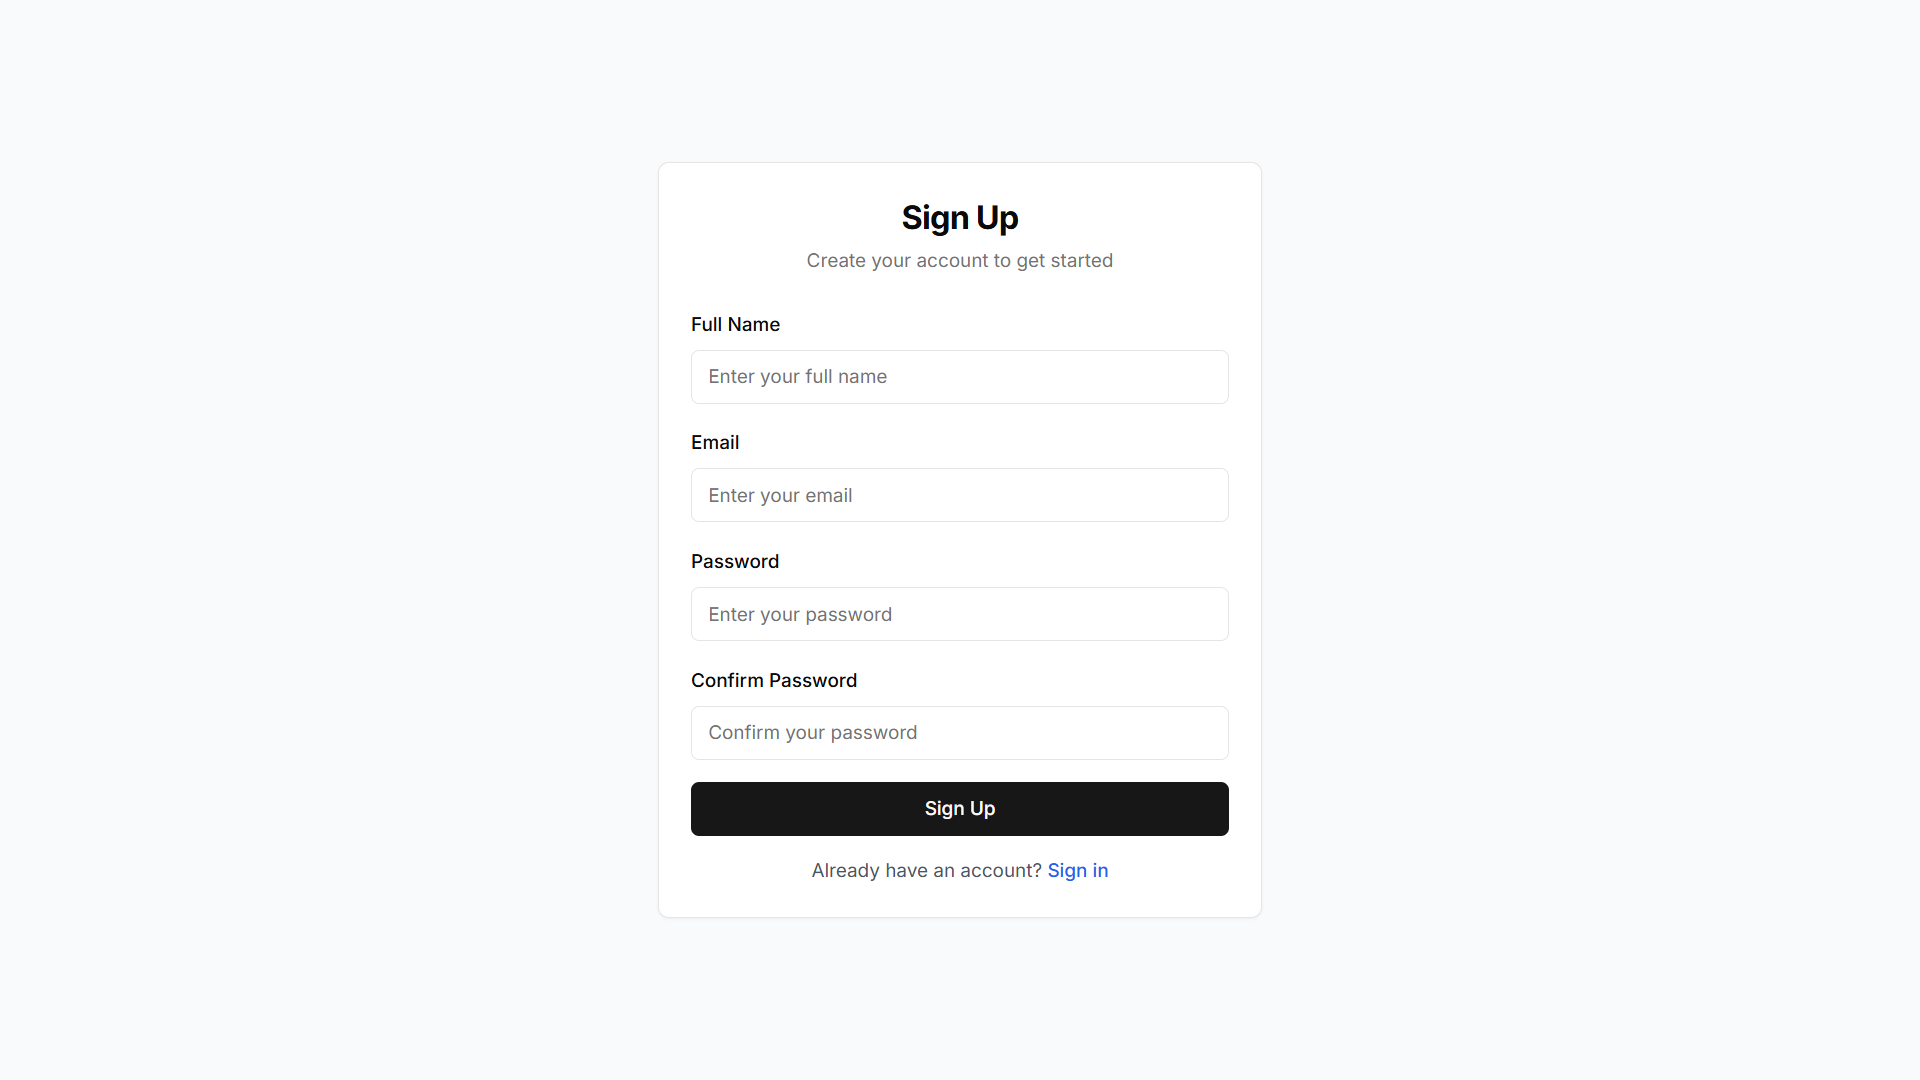
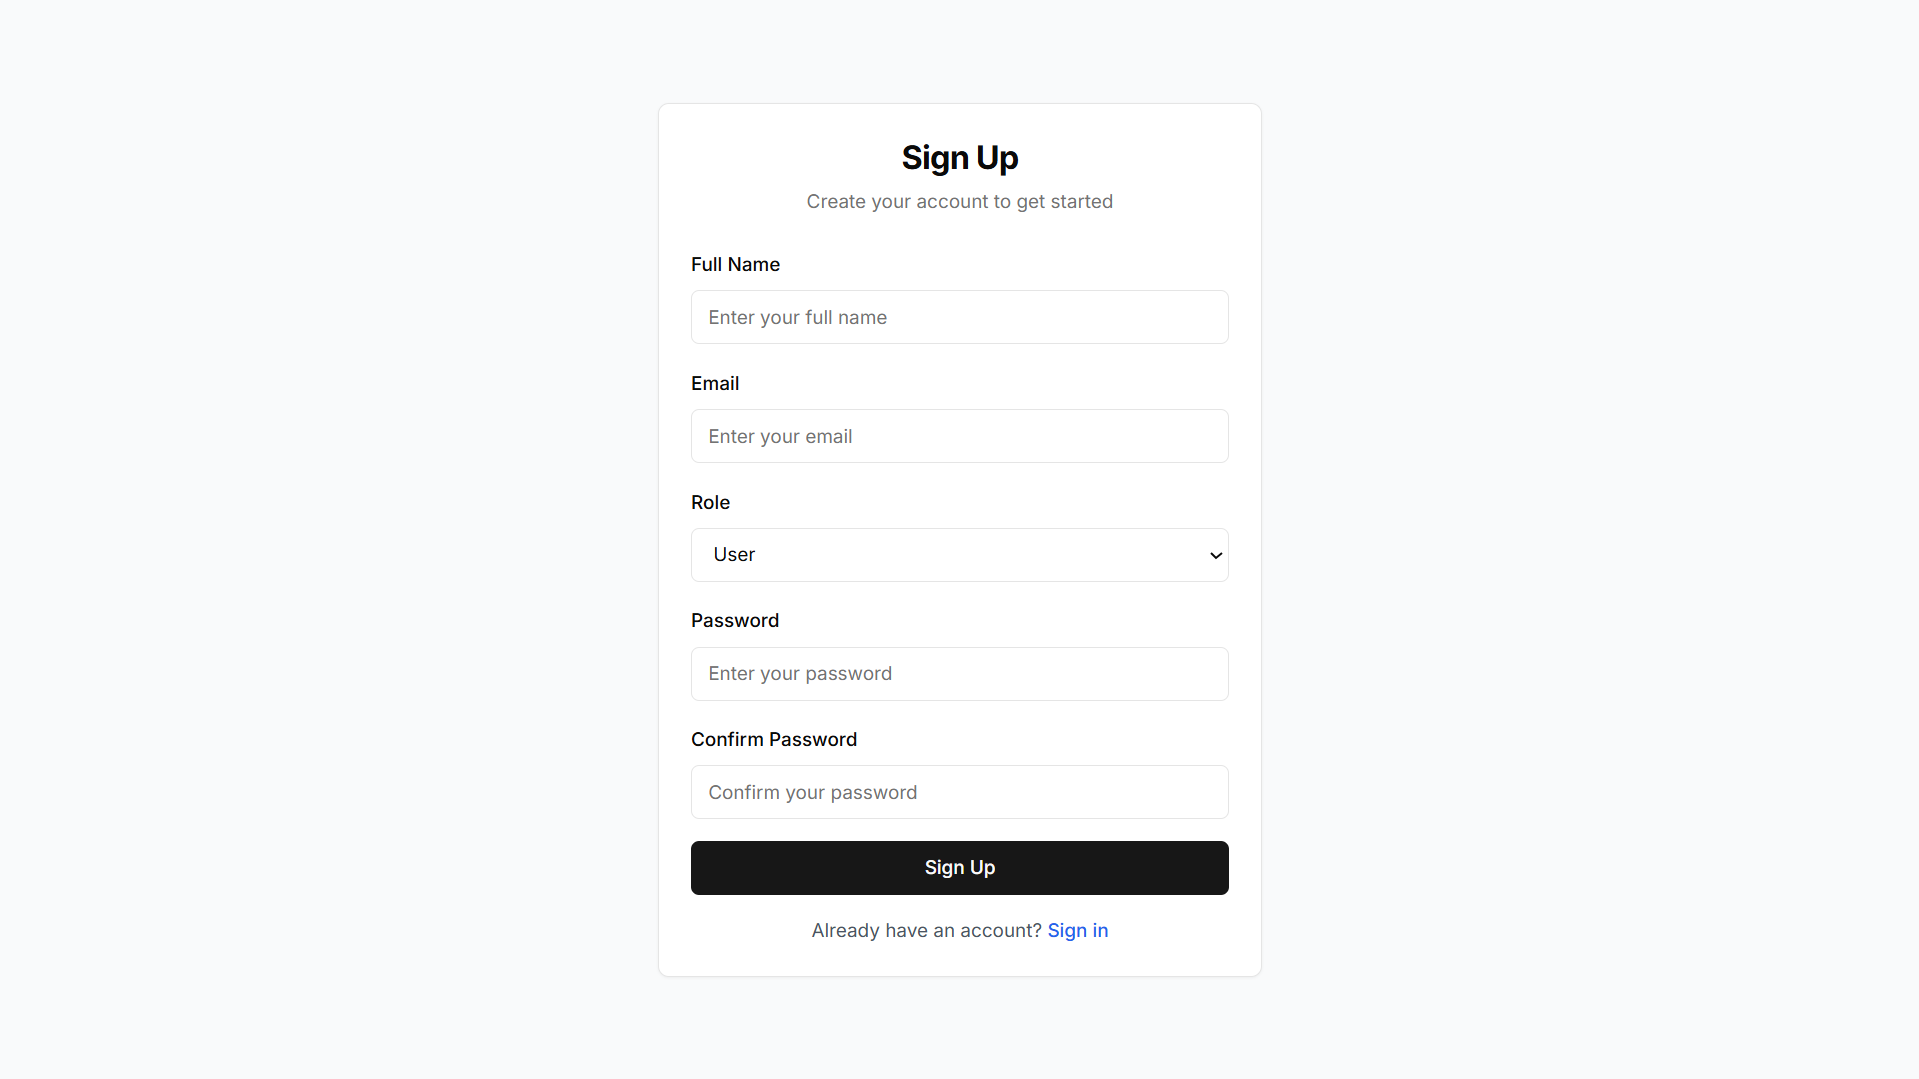
Feature commit

diff --git a/server/controllers/taskController.js b/server/controllers/taskController.js
@@ -12,10 +12,14 @@ exports.createTask = async (req, res) => {
 exports.getAllTasks = async (req, res) => {
   try {
     const { status, category, project, sortBy } = req.query;
-    const isAdmin = req.user.role === 'admin';
-
-    // Base query depending on user role
-    let query = isAdmin ? {} : { createdBy: req.user._id };
+    
+    // Base query for user's own tasks and assigned tasks
+    let query = {
+      $or: [
+        { createdBy: req.user._id },
+        { assignedTo: req.user._id }
+      ]
+    };
 
     // Apply filters
     if (status && status !== 'all') query.status = status;
@@ -27,14 +31,15 @@ exports.getAllTasks = async (req, res) => {
     if (sortBy === 'deadline') {
       sortOption.deadline = 1;
     } else {
-      sortOption.createdAt = -1; // Default sort by creation date
+      sortOption.createdAt = -1;
     }
 
     const tasks = await Task.find(query)
       .sort(sortOption)
+      .populate('createdBy', 'name email')
       .populate('assignedTo', 'name email');
 
-    res.json({ tasks });
+    res.json(tasks);
   } catch (err) {
     res.status(500).json({ message: err.message });
   }
@@ -91,24 +96,26 @@ exports.getUpcomingTasks = async (req, res) => {
     const in48Hours = new Date(now.getTime() + 48 * 60 * 60 * 1000);
     
     const tasks = await Task.find({
-      $or: [
-        { createdBy: req.user._id },
-        { assignedTo: req.user._id }
-      ],
-      deadline: { $exists: true }, // Only tasks with deadline set
-      status: { $ne: 'completed' },
-      $or: [
-        { deadline: { $lte: in48Hours } }, // Due within 48 hours
-        { deadline: { $lt: now } } // Overdue tasks
+      $and: [
+        {
+          $or: [
+            { createdBy: req.user._id },
+            { assignedTo: req.user._id }
+          ]
+        },
+        {
+          deadline: { $exists: true }, // Only tasks with deadline set
+          status: { $ne: 'completed' },
+          deadline: { 
+            $lte: in48Hours, // Due within 48 hours or overdue
+            $exists: true 
+          }
+        }
       ]
     })
     .sort({ deadline: 1 }) // Sort by nearest deadline first
     .populate('assignedTo', 'name email')
     .populate('createdBy', 'name email');
-
-    if (!tasks) {
-      return res.status(404).json({ message: 'No tasks found' });
-    }
 
     // Filter out tasks with invalid deadlines and format them
     const validTasks = tasks.filter(task => task.deadline && !isNaN(new Date(task.deadline).getTime()));
@@ -120,6 +127,87 @@ exports.getUpcomingTasks = async (req, res) => {
       message: 'Error fetching upcoming tasks',
       error: process.env.NODE_ENV === 'development' ? err.message : undefined
     });
+  }
+};
+
+// Admin-only: Get all tasks in the system
+exports.getAllTasksAdmin = async (req, res) => {
+  try {
+    const { status, category, project, sortBy } = req.query;
+    
+    let query = {};
+
+    // Apply filters
+    if (status && status !== 'all') query.status = status;
+    if (category) query.category = { $regex: category, $options: 'i' };
+    if (project) query.project = { $regex: project, $options: 'i' };
+
+    // Set up sorting
+    let sortOption = {};
+    if (sortBy === 'deadline') {
+      sortOption.deadline = 1;
+    } else {
+      sortOption.createdAt = -1;
+    }
+
+    const tasks = await Task.find(query)
+      .sort(sortOption)
+      .populate('createdBy', 'name email')
+      .populate('assignedTo', 'name email');
+
+    res.json(tasks);
+  } catch (err) {
+    res.status(500).json({ message: err.message });
+  }
+};
+
+exports.getProjectStats = async (req, res) => {
+  try {
+    // Get all tasks
+    const tasks = await Task.find({})
+      .populate('assignedTo', 'name email')
+      .populate('createdBy', 'name email');
+
+    // Group tasks by project
+    const projectGroups = tasks.reduce((groups, task) => {
+      const project = task.project || 'Uncategorized';
+      if (!groups[project]) {
+        groups[project] = {
+          project,
+          tasks: [],
+          totalTasks: 0,
+          completedTasks: 0,
+          pendingTasks: 0,
+          inProgressTasks: 0
+        };
+      }
+      
+      groups[project].tasks.push(task);
+      groups[project].totalTasks++;
+      
+      switch (task.status) {
+        case 'completed':
+          groups[project].completedTasks++;
+          break;
+        case 'in-progress':
+          groups[project].inProgressTasks++;
+          break;
+        default:
+          groups[project].pendingTasks++;
+      }
+      
+      return groups;
+    }, {});
+
+    // Convert to array and sort by project name
+    const projects = Object.values(projectGroups).sort((a, b) => 
+      a.project.localeCompare(b.project)
+    );
+
+    res.json({ projects });
+  } catch (err) {
+    console.error('Error in getProjectStats:', err);
+    res.status(500).json({ message: err.message });
   }
 };
 

diff --git a/client/app/register/page.tsx b/client/app/register/page.tsx
@@ -16,6 +16,7 @@ export default function RegisterPage() {
   const [email, setEmail] = useState("")
   const [password, setPassword] = useState("")
   const [confirmPassword, setConfirmPassword] = useState("")
+  const [role, setRole] = useState("user")
   const [error, setError] = useState("")
   const [loading, setLoading] = useState(false)
   const { register } = useAuth()
@@ -32,7 +33,7 @@ export default function RegisterPage() {
     setLoading(true)
 
     try {
-      await register(name, email, password)
+      await register(name, email, password, role)
     } catch (err: any) {
       setError(err.message)
     } finally {
@@ -77,6 +78,19 @@ export default function RegisterPage() {
                 required
                 placeholder="Enter your email"
               />
+            </div>
+
+            <div className="space-y-2">
+              <Label htmlFor="role">Role</Label>
+              <select
+                id="role"
+                value={role}
+                onChange={(e) => setRole(e.target.value)}
+                className="flex h-10 w-full rounded-md border border-input bg-background px-3 py-2 text-sm ring-offset-background file:border-0 file:bg-transparent file:text-sm file:font-medium placeholder:text-muted-foreground focus-visible:outline-none focus-visible:ring-2 focus-visible:ring-ring focus-visible:ring-offset-2 disabled:cursor-not-allowed disabled:opacity-50"
+              >
+                <option value="user">User</option>
+                <option value="admin">Admin</option>
+              </select>
             </div>
 
             <div className="space-y-2">

diff --git a/server/routes/taskRoutes.js b/server/routes/taskRoutes.js
@@ -1,23 +1,19 @@
 const express = require('express');
 const router = express.Router();
-const {
-  createTask,
-  getAllTasks,
-  getTaskById,
-  updateTask,
-  deleteTask,
-  getUpcomingTasks
-} = require('../controllers/taskController');
+const taskController = require('../controllers/taskController');
 const { protect } = require('../middleware/authMiddleware');
+const { authorize } = require('../middleware/roleMiddleware');
 
-router.use(protect);
+// Public routes (require authentication only)
+router.get('/my', protect, taskController.getAllTasks);
+router.get('/upcoming', protect, taskController.getUpcomingTasks); // Add this route before /:id
+router.post('/', protect, taskController.createTask);
+router.get('/projects', protect, authorize('admin'), taskController.getProjectStats); // New route for project stats
+router.get('/:id', protect, taskController.getTaskById); // Fixed method name
+router.put('/:id', protect, taskController.updateTask);
+router.delete('/:id', protect, taskController.deleteTask);
 
-// Route order matters! Place specific routes before parametric routes
-router.post('/', createTask);
-router.get('/', getAllTasks);
-router.get('/upcoming', getUpcomingTasks); // Moved before /:id
-router.get('/:id', getTaskById);
-router.put('/:id', updateTask);
-router.delete('/:id', deleteTask);
+// Admin only routes
+router.get('/all/tasks', protect, authorize('admin'), taskController.getAllTasksAdmin);
 
 module.exports = router;

diff --git a/client/app/dashboard/page.tsx b/client/app/dashboard/page.tsx
@@ -37,19 +37,23 @@ export default function DashboardPage() {
   })
 
   useEffect(() => {
-    fetchTasks()
-  }, [filters])
+    if (user) { // Only fetch if user is logged in
+      fetchTasks()
+    }
+  }, [filters, user])
 
   const fetchTasks = async () => {
     try {
       const params = new URLSearchParams()
-      if (filters.status !== "all") params.append("status", filters.status) // Updated condition to exclude 'all'
+      if (filters.status !== "all") params.append("status", filters.status)
       if (filters.category) params.append("category", filters.category)
       if (filters.project) params.append("project", filters.project)
       params.append("sortBy", filters.sortBy)
 
-      const response = await api.get(`/tasks?${params.toString()}`)
-      const tasksData = response.data.tasks ?? response.data // handle both array and object
+      // Use different endpoints based on user role
+      const endpoint = user?.role === "admin" ? "/tasks/all/tasks" : "/tasks/my"
+      const response = await api.get(`${endpoint}?${params.toString()}`)
+      const tasksData = Array.isArray(response.data) ? response.data : response.data.tasks // handle both array and object responses
       console.log("Fetched tasks:", tasksData)
       
       setTasks(tasksData)

diff --git a/client/contexts/auth-context.tsx b/client/contexts/auth-context.tsx
@@ -16,7 +16,7 @@ interface User {
 interface AuthContextType {
   user: User | null
   login: (email: string, password: string) => Promise<void>
-  register: (name: string, email: string, password: string) => Promise<void>
+  register: (name: string, email: string, password: string, role: string) => Promise<void>
   logout: () => void
   loading: boolean
 }
@@ -63,9 +63,9 @@ export function AuthProvider({ children }: { children: React.ReactNode }) {
     }
   }
 
-  const register = async (name: string, email: string, password: string) => {
+  const register = async (name: string, email: string, password: string, role: string) => {
     try {
-      const response = await api.post("/auth/register", { name, email, password })
+      const response = await api.post("/auth/register", { name, email, password, role })
       const { token, user } = response.data
 
       localStorage.setItem("token", token)

diff --git a/server/controllers/authController.js b/server/controllers/authController.js
@@ -6,16 +6,21 @@ const generateToken = (id) => {
 };
 
 exports.register = async (req, res) => {
-  const { name, email, password } = req.body;
+  const { name, email, password, role } = req.body;
   try {
     const userExists = await User.findOne({ email });
     if (userExists) return res.status(400).json({ message: 'User already exists' });
 
-    const user = await User.create({ name, email, password });
+    // Validate role
+    const validRole = role === 'admin' || role === 'user';
+    if (!validRole) return res.status(400).json({ message: 'Invalid role specified' });
+
+    const user = await User.create({ name, email, password, role });
     res.status(201).json({
       _id: user._id,
       name: user.name,
       email: user.email,
+      role: user.role,
       token: generateToken(user._id),
     });
   } catch (err) {

diff --git a/server/middleware/roleMiddleware.js b/server/middleware/roleMiddleware.js
@@ -1,0 +1,18 @@
+// Role-based authorization middleware
+exports.authorize = (roles = []) => {
+    if (typeof roles === 'string') {
+        roles = [roles];
+    }
+
+    return (req, res, next) => {
+        if (!req.user) {
+            return res.status(401).json({ message: 'Not authorized' });
+        }
+
+        if (roles.length && !roles.includes(req.user.role)) {
+            return res.status(403).json({ message: 'Not authorized for this action' });
+        }
+
+        next();
+    };
+};
